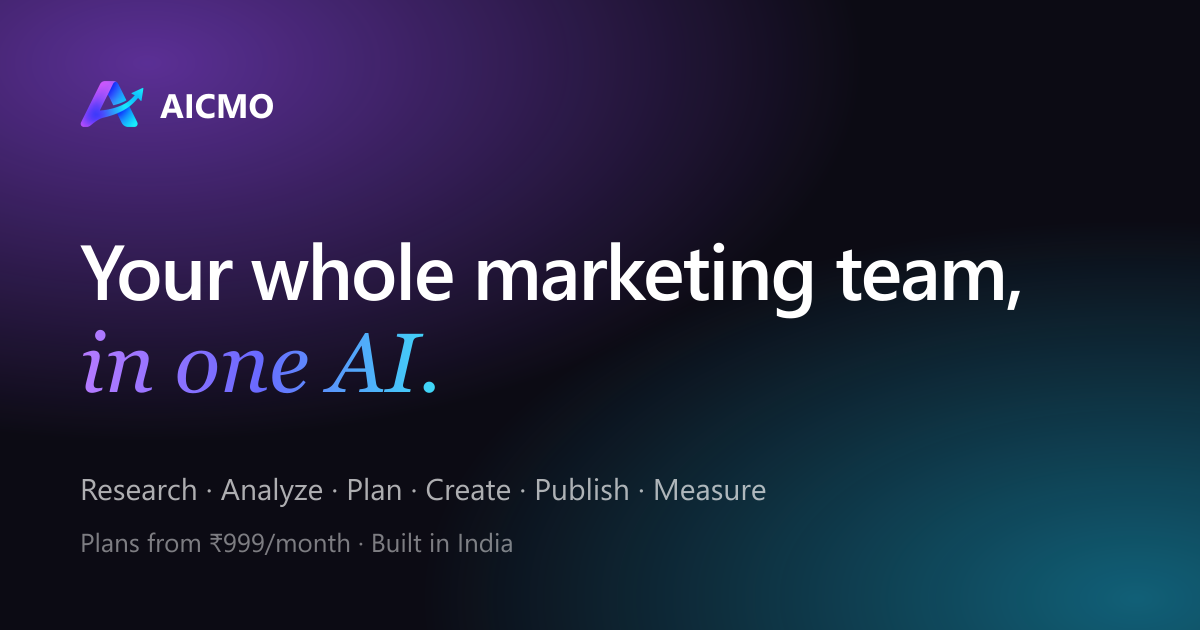
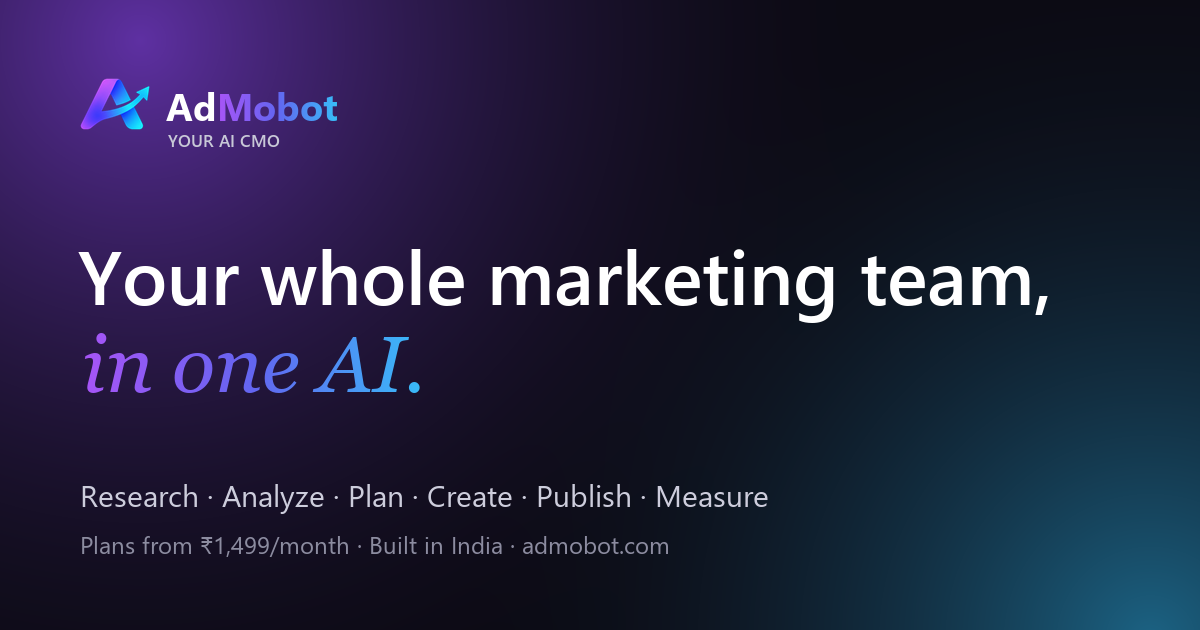
Rebrand the website to AdMobot (Your AI CMO), new share image with current prices

diff --git a/src/lib/faq.ts b/src/lib/faq.ts
@@ -1,19 +1,19 @@
 export const FAQ = [
   {
     q: 'What is an AI CMO?',
-    a: "An AI CMO (AI Chief Marketing Officer) is software that does the job of a marketing lead, not just one marketing task. It learns your brand, decides what to say and where, writes and designs the content, publishes it, measures the results and changes the plan based on what worked. AICMO is an AI CMO built for startups, D2C brands and agencies in India, with prices in rupees.",
+    a: "An AI CMO (AI Chief Marketing Officer) is software that does the job of a marketing lead, not just one marketing task. It learns your brand, decides what to say and where, writes and designs the content, publishes it, measures the results and changes the plan based on what worked. AdMobot is an AI CMO built for startups, D2C brands and agencies in India, with prices in rupees.",
   },
   {
-    q: 'Who is AICMO for?',
+    q: 'Who is AdMobot for?',
     a: 'Founders and small teams without a full-time marketer: D2C and Shopify brands, startups and apps, and agencies that run marketing for several clients. It suits teams that want consistent, on-brand marketing every week without hiring an agency or juggling ten tools.',
   },
   {
-    q: 'What exactly does AICMO do?',
+    q: 'What exactly does AdMobot do?',
     a: "It works like a whole marketing team inside one app. Give it your website and it builds a Brand Brain (your voice, audience, products, offers and competitors). Then it runs the full loop: research (competitor website changes, conversations on Reddit, Hacker News and Mastodon, website health, SEO audit and keywords), analysis (review sentiment, inbox triage, a weekly review), planning (strategy, a 30-day content plan, launch playbooks and ad campaigns), creation (posts, designs and carousels, SEO articles, emails, landing pages), publishing to 13 channels plus email, and measurement (post engagement, Google Analytics, tracked links, leads, reports and growth experiments). What it measures feeds the next plan.",
   },
   {
-    q: 'Is AICMO just a social media scheduler?',
-    a: 'No. Publishing is one of seven stages. Schedulers post what you give them; AICMO also decides what to post and why, from research on your market, competitors and customer reviews, then measures the results and compares what worked. It replaces a research tool, a strategy doc, a design app, a scheduler, an email tool, an SEO tool, a landing-page builder, a CRM and an analytics dashboard with one AI CMO.',
+    q: 'Is AdMobot just a social media scheduler?',
+    a: 'No. Publishing is one of seven stages. Schedulers post what you give them; AdMobot also decides what to post and why, from research on your market, competitors and customer reviews, then measures the results and compares what worked. It replaces a research tool, a strategy doc, a design app, a scheduler, an email tool, an SEO tool, a landing-page builder, a CRM and an analytics dashboard with one AI CMO.',
   },
   {
     q: 'Will it post things without asking me?',
@@ -33,7 +33,7 @@ export const FAQ = [
   },
   {
     q: 'I sell on Shopify. Does it know my products?',
-    a: 'Yes. AICMO imports your products and prices from your Shopify store and refreshes them daily. Posts use your real product names and prices, and it can turn any product photo into a branded post image with the price on it.',
+    a: 'Yes. AdMobot imports your products and prices from your Shopify store and refreshes them daily. Posts use your real product names and prices, and it can turn any product photo into a branded post image with the price on it.',
   },
   {
     q: 'What are credits?',

diff --git a/src/lib/site.ts b/src/lib/site.ts
@@ -3,10 +3,10 @@
  * Before going public: set CONTACT_EMAIL, LEGAL_NAME and, once billing is live, SIGNUP_OPEN = true.
  */
 export const SITE = {
-  name: 'AICMO',
-  title: 'AICMO — your AI Chief Marketing Officer: research, strategy, content and analytics',
+  name: 'AdMobot',
+  title: 'AdMobot — your AI CMO: research, strategy, content and analytics in one platform',
   description:
-    'AICMO is an all-in-one AI marketing team for startups and D2C brands: it researches your market and competitors, analyzes reviews, plans your strategy, creates on-brand content, publishes to 13 channels plus email and measures what works.',
+    'AdMobot is an all-in-one AI marketing team for startups and D2C brands: it researches your market and competitors, analyzes reviews, plans your strategy, creates on-brand content, publishes to 13 channels plus email and measures what works.',
   /** The product (sign-up / sign-in). */
   appUrl: 'https://aicmo-delta.vercel.app',
   /** API that stores early-access requests (POST /api/waitlist). */
@@ -15,7 +15,7 @@ export const SITE = {
   signupOpen: false,
   /** Needs email forwarding on admobot.com (e.g. Cloudflare Email Routing or the registrar's forwarding). */
   contactEmail: 'hello@admobot.com',
-  legalName: 'AICMO', // TODO: registered business name for the legal pages
+  legalName: 'AdMobot', // TODO: registered business name for the legal pages
   country: 'India',
   /** Optional Google Analytics 4 measurement ID (G-XXXX). Empty = no analytics script. */
   ga4: '',

diff --git a/src/lib/platform.ts b/src/lib/platform.ts
@@ -1,5 +1,5 @@
 /**
- * What AICMO does, grouped by the marketing loop. Shared by the home page, /platform and llms.txt.
+ * What AdMobot does, grouped by the marketing loop. Shared by the home page, /platform and llms.txt.
  * Only list what the app really does today; unbuilt modules go in COMING_NEXT.
  */
 export interface Stage {
@@ -128,5 +128,5 @@ export const COMING_NEXT: [string, string][] = [
   ['Video creation', 'Short videos and reels made from your brand kit and product photos.'],
   ['YouTube & TikTok uploads', 'Publishing videos directly; today these posts come to you ready to post by hand.'],
   ['WhatsApp Business broadcasts', 'Sending campaigns through the WhatsApp Business API.'],
-  ['Launch ads from AICMO', 'Connecting your ad accounts to launch and adjust campaigns directly; today you import the files AICMO builds.'],
+  ['Launch ads from AdMobot', 'Connecting your ad accounts to launch and adjust campaigns directly; today you import the files AdMobot builds.'],
 ];

diff --git a/src/pages/llms.txt.ts b/src/pages/llms.txt.ts
@@ -12,7 +12,7 @@ export async function GET({ site }: APIContext) {
 
 > ${SITE.description}
 
-AICMO is an all-in-one AI Chief Marketing Officer for startups, D2C/Shopify brands and agencies, built in India with prices in INR. It is not only a social media scheduler: it covers research, analysis, planning, creation, publishing, measurement and comparison.
+AdMobot is an all-in-one AI Chief Marketing Officer for startups, D2C/Shopify brands and agencies, built in India with prices in INR. It is not only a social media scheduler: it covers research, analysis, planning, creation, publishing, measurement and comparison.
 
 ## What it does
 ${STAGES.map((s) => `### ${s.name}: ${s.verb}\n${s.summary}\n${s.tools.map(([t, b]) => `- ${t}: ${b}`).join('\n')}`).join('\n\n')}

diff --git a/src/content/blog/what-is-an-ai-cmo.md b/src/content/blog/what-is-an-ai-cmo.md
@@ -73,8 +73,8 @@ It fits less well if you are a large brand with an in-house team and a complex a
 - Does it publish to the channels my customers actually use, and in **their language**?
 - Is the price clear, and what does a month of my usual volume cost?
 
-## How AICMO does it
+## How AdMobot does it
 
-[AICMO](/) is an AI CMO built for Indian startups, D2C brands and agencies. It builds a Brand Brain from your website (and your Shopify catalogue, if you have one), writes a strategy and a 30-day content plan, drafts posts with images for [13 channels plus email](/platform/), checks every price and offer against your own sources, and reads back post performance to shape the next week. It writes in English, Hinglish and eleven Indian languages and plans around Indian festivals. Plans start at ₹1,499 a month; see [pricing](/pricing/).
+[AdMobot](/) is an AI CMO built for Indian startups, D2C brands and agencies. It builds a Brand Brain from your website (and your Shopify catalogue, if you have one), writes a strategy and a 30-day content plan, drafts posts with images for [13 channels plus email](/platform/), checks every price and offer against your own sources, and reads back post performance to shape the next week. It writes in English, Hinglish and eleven Indian languages and plans around Indian festivals. Plans start at ₹1,499 a month; see [pricing](/pricing/).
 
 [Get early access](/#early-access) and judge the first week of posts on your own brand.

diff --git a/src/content/blog/instagram-marketing-for-d2c-brands-without-an-agency.md b/src/content/blog/instagram-marketing-for-d2c-brands-without-an-agency.md
@@ -78,7 +78,7 @@ The hardest part of this playbook is not knowing what to do — it is doing it e
 - **Scheduling and approval.** Batch a week of posts and approve them in one sitting.
 - **Automatic performance reading.** Pull likes, comments, saves, shares and reach per post without screenshots.
 
-[AICMO](/for/d2c-brands/) does all four: it imports your Shopify products and prices, creates product photo cards, writes captions in your brand voice, checks every price and offer against your store, publishes to Instagram and Facebook on schedule, and reads back each post's performance. You approve the week's posts in a few minutes.
+[AdMobot](/for/d2c-brands/) does all four: it imports your Shopify products and prices, creates product photo cards, writes captions in your brand voice, checks every price and offer against your store, publishes to Instagram and Facebook on schedule, and reads back each post's performance. You approve the week's posts in a few minutes.
 
 ## Quick checklist
 
@@ -89,4 +89,4 @@ The hardest part of this playbook is not knowing what to do — it is doing it e
 - [ ] One batch session per week; daily replies
 - [ ] Weekly review of saves, shares, reach and link taps
 
-Want to see a week of Instagram posts written from your own catalogue? [Get early access to AICMO](/#early-access).
+Want to see a week of Instagram posts written from your own catalogue? [Get early access to AdMobot](/#early-access).

diff --git a/src/content/blog/ai-cmo-vs-agency-vs-freelancer.md b/src/content/blog/ai-cmo-vs-agency-vs-freelancer.md
@@ -55,7 +55,7 @@ Keep these four in mind; each option below is good at some and weak at others.
 
 ## Option 3: An AI CMO
 
-An AI CMO like [AICMO](/) is software that does the planning *and* the execution: it reads your website to learn your brand, writes a strategy and content calendar, drafts posts for each channel with images, publishes them on schedule, and reads back how each post performed to shape the next plan.
+An AI CMO like [AdMobot](/) is software that does the planning *and* the execution: it reads your website to learn your brand, writes a strategy and content calendar, drafts posts for each channel with images, publishes them on schedule, and reads back how each post performed to shape the next plan.
 
 **Where an AI CMO shines**
 
@@ -96,4 +96,4 @@ The mix changes as you grow. What should not change is the basics: a clear posit
 
 ## Try it on your own brand
 
-AICMO builds your Brand Brain from your website in a few minutes, and you can see a full week of drafted posts before anything is published. [Get early access](/#early-access) and judge the output on your own brand.
+AdMobot builds your Brand Brain from your website in a few minutes, and you can see a full week of drafted posts before anything is published. [Get early access](/#early-access) and judge the output on your own brand.

diff --git a/src/content/blog/festive-season-marketing-plan-d2c-2026.md b/src/content/blog/festive-season-marketing-plan-d2c-2026.md
@@ -91,6 +91,6 @@ Do more of what is working the same week. That is the whole advantage of a small
 - [ ] Tracked links on every post
 - [ ] Replies ready for order and delivery questions
 
-## Where AICMO helps
+## Where AdMobot helps
 
-[AICMO](/for/d2c-brands/) already knows the 2026 festival dates and plans posts ahead of each one. It imports your Shopify products and prices, writes posts and carousels in English, Hinglish or eleven Indian languages, checks every price, code and date against your store before anything is published, and adds tracked links so you can see which posts bring buyers. You approve the week's posts in a few minutes. [Get early access](/#early-access).
+[AdMobot](/for/d2c-brands/) already knows the 2026 festival dates and plans posts ahead of each one. It imports your Shopify products and prices, writes posts and carousels in English, Hinglish or eleven Indian languages, checks every price, code and date against your store before anything is published, and adds tracked links so you can see which posts bring buyers. You approve the week's posts in a few minutes. [Get early access](/#early-access).

diff --git a/src/content/blog/30-day-social-media-content-plan-for-startups.md b/src/content/blog/30-day-social-media-content-plan-for-startups.md
@@ -112,4 +112,4 @@ Each week, look at your best and worst post. Ask: which pillar, which format, wh
 
 ## Or let an AI CMO run the plan
 
-[AICMO](/) builds your pillars from your website, fills a calendar like the one above for each channel, drafts every post with an image, fact-checks prices and offers against your site, and reads back post performance to adjust the next week — you approve in a few minutes. [Get early access](/#early-access).
+[AdMobot](/) builds your pillars from your website, fills a calendar like the one above for each channel, drafts every post with an image, fact-checks prices and offers against your site, and reads back post performance to adjust the next week — you approve in a few minutes. [Get early access](/#early-access).

diff --git a/README.md b/README.md
@@ -1,6 +1,6 @@
-# AICMO website
+# AdMobot website
 
-Marketing site for AICMO (the app lives in a separate private repo). Static [Astro](https://astro.build) + Tailwind v4, deployed to GitHub Pages.
+Marketing site for AdMobot (the app lives in a separate private repo). Static [Astro](https://astro.build) + Tailwind v4, deployed to GitHub Pages.
 
 ## Develop
 
